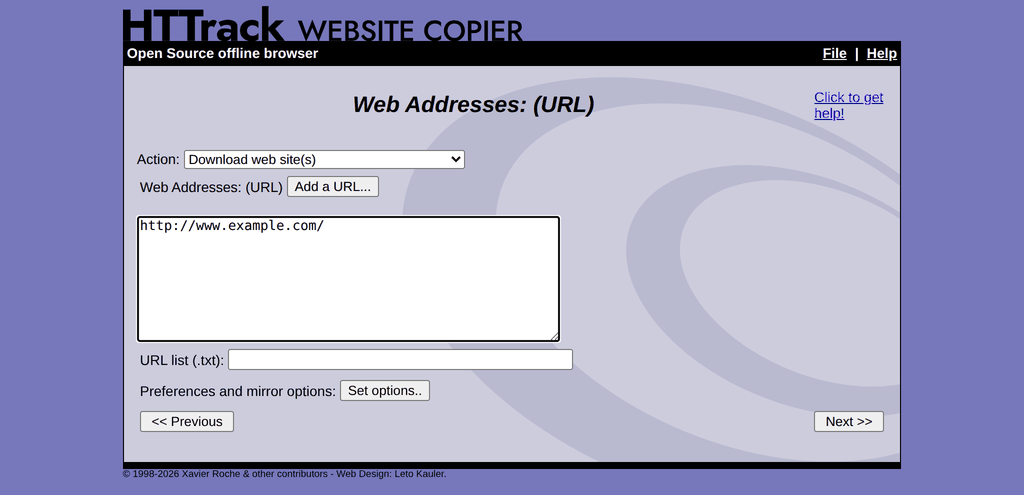
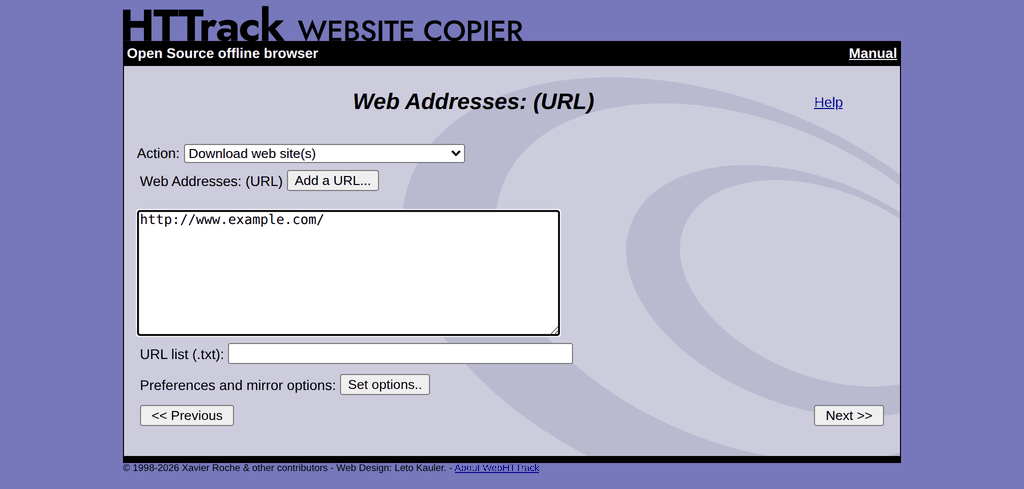
Reshoot the WebHTTrack guide screenshots after the chrome rework
Every web shot in the guide still showed the File | Help menu that #1445
removed. Recaptured from master 05233895 (screenshots run 32939099821,
httrack-works 43460db); the panes lost a few pixels of height each, so
guide.html's hardcoded dimensions move with them.

diff --git a/html/guide.html b/html/guide.html
@@ -143,7 +143,7 @@ together in the list.</p>
 
 <figure>
 	<img data-for="win" src="img/guide-win-project-name.png" alt="WinHTTrack project name, category and base path" width="1040" height="744">
-	<img data-for="web" src="img/guide-web-project-name.png" alt="WebHTTrack project name, category and base path" width="1024" height="345">
+	<img data-for="web" src="img/guide-web-project-name.png" alt="WebHTTrack project name, category and base path" width="1024" height="329">
 	<img data-for="droid" src="img/guide-droid-project-name.png" alt="Android project name, category and base path" width="600" height="1300">
 	<figcaption>Project name, category, and where the files go.</figcaption>
 </figure>
@@ -162,7 +162,7 @@ keep their links to each other.</p>
 
 <figure>
 	<img data-for="win" src="img/guide-win-project-setup.png" alt="WinHTTrack action and web addresses" width="1040" height="744">
-	<img data-for="web" src="img/guide-web-project-setup.png" alt="WebHTTrack action and web addresses" width="1024" height="495">
+	<img data-for="web" src="img/guide-web-project-setup.png" alt="WebHTTrack action and web addresses" width="1024" height="489">
 	<img data-for="droid" src="img/guide-droid-project-setup.png" alt="Android web address and action" width="600" height="1300">
 	<figcaption>The addresses to copy, and what to do with them.</figcaption>
 </figure>
@@ -218,7 +218,7 @@ port, you point your browser at it as a proxy and click the link or the submit b
 usual, and the address the browser asks for is added to the project.</p>
 
 <figure data-for="web">
-	<img data-for="web" src="img/guide-web-add-url.png" alt="WebHTTrack add-a-URL dialog" width="1024" height="600">
+	<img data-for="web" src="img/guide-web-add-url.png" alt="WebHTTrack add-a-URL dialog" width="1024" height="565">
 	<figcaption>Adding a single address, with an optional login.</figcaption>
 </figure>
 
@@ -247,7 +247,7 @@ mirror straight away.</p>
 
 <figure data-for="win web">
 	<img data-for="win" src="img/guide-win-ready.png" alt="WinHTTrack connection settings before starting" width="1040" height="744">
-	<img data-for="web" src="img/guide-web-ready.png" alt="WebHTTrack ready to start" width="1024" height="489">
+	<img data-for="web" src="img/guide-web-ready.png" alt="WebHTTrack ready to start" width="1024" height="483">
 	<figcaption>The last screen before the mirror runs.</figcaption>
 </figure>
 
@@ -280,7 +280,7 @@ mirrored pages are rewritten to point at each other, so it browses offline in an
 
 <figure>
 	<img data-for="win" src="img/guide-win-finished.png" alt="WinHTTrack mirror complete" width="1040" height="744">
-	<img data-for="web" src="img/guide-web-finished.png" alt="WebHTTrack mirror complete" width="1024" height="486">
+	<img data-for="web" src="img/guide-web-finished.png" alt="WebHTTrack mirror complete" width="1024" height="480">
 	<img data-for="droid" src="img/guide-droid-finished.png" alt="Android mirror complete" width="600" height="1300">
 	<figcaption>Done.</figcaption>
 </figure>
@@ -329,7 +329,7 @@ interface shows it, and the command-line option it corresponds to.</p>
 
 <figure>
 	<img data-for="win" src="img/guide-win-opt-scan-rules.png" alt="WinHTTrack Scan Rules tab" width="524" height="448">
-	<img data-for="web" src="img/guide-web-opt-scan-rules.png" alt="WebHTTrack Scan Rules tab" width="1024" height="995">
+	<img data-for="web" src="img/guide-web-opt-scan-rules.png" alt="WebHTTrack Scan Rules tab" width="1024" height="960">
 	<img data-for="droid" src="img/guide-droid-opt-scan-rules.png" alt="Android Scan Rules tab" width="600" height="1300">
 </figure>
 
@@ -366,7 +366,7 @@ is on the <a href="filters.html">filter page</a>.</p>
 
 <figure>
 	<img data-for="win" src="img/guide-win-opt-limits.png" alt="WinHTTrack Limits tab" width="524" height="448">
-	<img data-for="web" src="img/guide-web-opt-limits.png" alt="WebHTTrack Limits tab" width="1024" height="1016">
+	<img data-for="web" src="img/guide-web-opt-limits.png" alt="WebHTTrack Limits tab" width="1024" height="981">
 	<img data-for="droid" src="img/guide-droid-opt-limits.png" alt="Android Limits tab" width="600" height="1300">
 </figure>
 
@@ -444,7 +444,7 @@ bottom are the ones that keep you welcome.</p>
 
 <figure>
 	<img data-for="win" src="img/guide-win-opt-flow-control.png" alt="WinHTTrack Flow Control tab" width="524" height="448">
-	<img data-for="web" src="img/guide-web-opt-flow-control.png" alt="WebHTTrack Flow Control tab" width="1024" height="862">
+	<img data-for="web" src="img/guide-web-opt-flow-control.png" alt="WebHTTrack Flow Control tab" width="1024" height="827">
 	<img data-for="droid" src="img/guide-droid-opt-flow-control.png" alt="Android Flow Control tab" width="600" height="1300">
 </figure>
 
@@ -487,7 +487,7 @@ bottom are the ones that keep you welcome.</p>
 
 <figure>
 	<img data-for="win" src="img/guide-win-opt-links.png" alt="WinHTTrack Links tab" width="524" height="448">
-	<img data-for="web" src="img/guide-web-opt-links.png" alt="WebHTTrack Links tab" width="1024" height="749">
+	<img data-for="web" src="img/guide-web-opt-links.png" alt="WebHTTrack Links tab" width="1024" height="714">
 	<img data-for="droid" src="img/guide-droid-opt-links.png" alt="Android Links tab" width="600" height="1300">
 </figure>
 
@@ -524,7 +524,7 @@ bottom are the ones that keep you welcome.</p>
 
 <figure>
 	<img data-for="win" src="img/guide-win-opt-build.png" alt="WinHTTrack Build tab" width="524" height="448">
-	<img data-for="web" src="img/guide-web-opt-build.png" alt="WebHTTrack Build tab" width="1024" height="976">
+	<img data-for="web" src="img/guide-web-opt-build.png" alt="WebHTTrack Build tab" width="1024" height="941">
 	<img data-for="droid" src="img/guide-droid-opt-build.png" alt="Android Build tab" width="600" height="1300">
 </figure>
 
@@ -591,7 +591,7 @@ bottom are the ones that keep you welcome.</p>
 
 <figure>
 	<img data-for="win" src="img/guide-win-opt-browser-id.png" alt="WinHTTrack Browser ID tab" width="524" height="448">
-	<img data-for="web" src="img/guide-web-opt-browser-id.png" alt="WebHTTrack Browser ID tab" width="1024" height="654">
+	<img data-for="web" src="img/guide-web-opt-browser-id.png" alt="WebHTTrack Browser ID tab" width="1024" height="619">
 	<img data-for="droid" src="img/guide-droid-opt-browser-id.png" alt="Android Browser ID tab" width="600" height="1300">
 </figure>
 
@@ -631,7 +631,7 @@ bottom are the ones that keep you welcome.</p>
 
 <figure>
 	<img data-for="win" src="img/guide-win-opt-spider.png" alt="WinHTTrack Spider tab" width="524" height="448">
-	<img data-for="web" src="img/guide-web-opt-spider.png" alt="WebHTTrack Spider tab" width="1024" height="1770">
+	<img data-for="web" src="img/guide-web-opt-spider.png" alt="WebHTTrack Spider tab" width="1024" height="1734">
 	<img data-for="droid" src="img/guide-droid-opt-spider.png" alt="Android Spider tab" width="600" height="1300">
 </figure>
 
@@ -730,7 +730,7 @@ bottom are the ones that keep you welcome.</p>
 
 <figure>
 	<img data-for="win" src="img/guide-win-opt-proxy.png" alt="WinHTTrack Proxy tab" width="524" height="448">
-	<img data-for="web" src="img/guide-web-opt-proxy.png" alt="WebHTTrack Proxy tab" width="1024" height="760">
+	<img data-for="web" src="img/guide-web-opt-proxy.png" alt="WebHTTrack Proxy tab" width="1024" height="725">
 	<img data-for="droid" src="img/guide-droid-opt-proxy.png" alt="Android Proxy tab" width="600" height="1300">
 </figure>
 
@@ -767,7 +767,7 @@ bottom are the ones that keep you welcome.</p>
 
 <figure>
 	<img data-for="win" src="img/guide-win-opt-log-index-cache.png" alt="WinHTTrack Log, Index, Cache tab" width="524" height="448">
-	<img data-for="web" src="img/guide-web-opt-log-index-cache.png" alt="WebHTTrack Log, Index, Cache tab" width="1024" height="1266">
+	<img data-for="web" src="img/guide-web-opt-log-index-cache.png" alt="WebHTTrack Log, Index, Cache tab" width="1024" height="1230">
 	<img data-for="droid" src="img/guide-droid-opt-log-index-cache.png" alt="Android Log, Index, Cache tab" width="600" height="1300">
 </figure>
 
@@ -835,7 +835,7 @@ bottom are the ones that keep you welcome.</p>
 
 <figure>
 	<img data-for="win" src="img/guide-win-opt-mime-types.png" alt="WinHTTrack MIME types tab" width="524" height="448">
-	<img data-for="web" src="img/guide-web-opt-mime-types.png" alt="WebHTTrack MIME types tab" width="1024" height="1046">
+	<img data-for="web" src="img/guide-web-opt-mime-types.png" alt="WebHTTrack MIME types tab" width="1024" height="1011">
 	<img data-for="droid" src="img/guide-droid-opt-mime-types.png" alt="Android MIME types tab" width="600" height="1300">
 </figure>
 
@@ -866,7 +866,7 @@ bottom are the ones that keep you welcome.</p>
 
 <figure>
 	<img data-for="win" src="img/guide-win-opt-experts-only.png" alt="WinHTTrack Experts Only tab" width="524" height="448">
-	<img data-for="web" src="img/guide-web-opt-experts-only.png" alt="WebHTTrack Experts Only tab" width="1024" height="1085">
+	<img data-for="web" src="img/guide-web-opt-experts-only.png" alt="WebHTTrack Experts Only tab" width="1024" height="1050">
 	<img data-for="droid" src="img/guide-droid-opt-experts-only.png" alt="Android Experts Only tab" width="600" height="1300">
 </figure>
 
